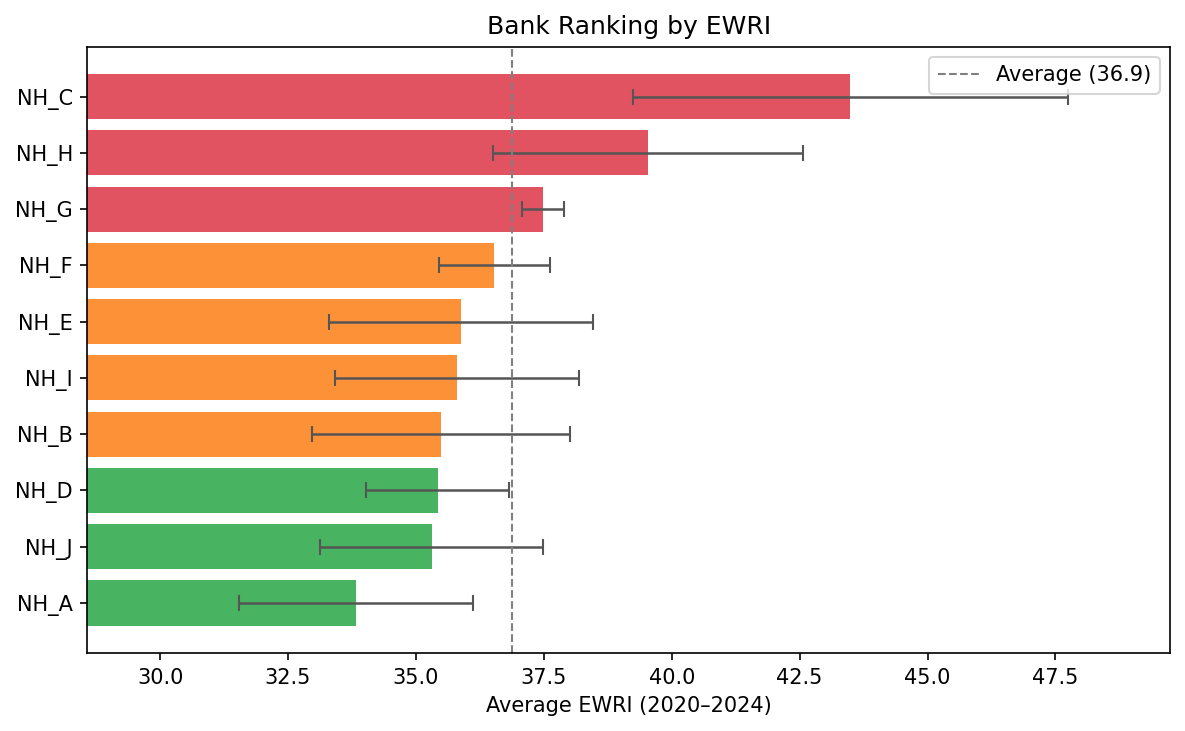
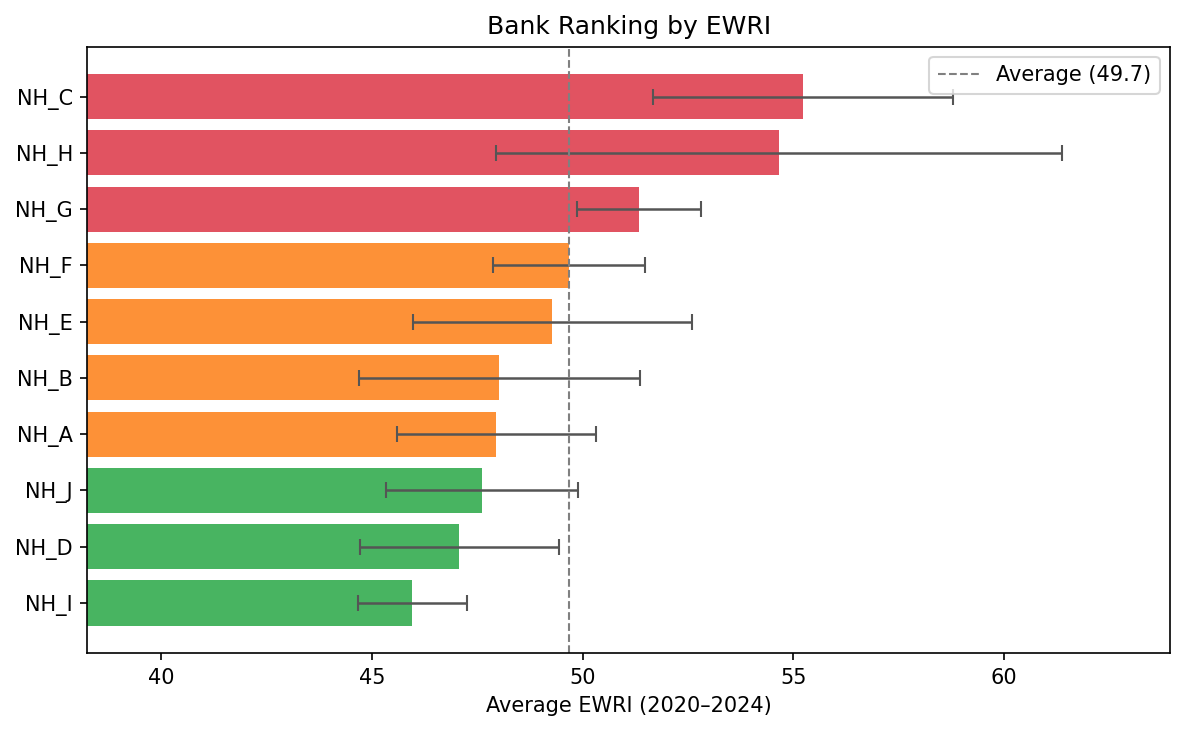
update

diff --git a/src/training/corpus/build_corpus.py b/src/training/corpus/build_corpus.py
@@ -5,10 +5,11 @@ import pandas as pd
 from typing import Optional
 
 try:
-    from underthesea import sent_tokenize
+    from underthesea import sent_tokenize, pos_tag as _ut_pos_tag
     USE_UNDERTHESEA = True
 except Exception:
     USE_UNDERTHESEA = False
+    _ut_pos_tag = None
 
 INPUT_ROOT = Path("data/extracted/raw_ocr_annual_report")
 OUT_BLOCKS = Path("data/corpus/blocks.parquet")
@@ -197,18 +198,54 @@ NOISE_PATTERNS = [
     re.compile(r"^\d{1,3}$"),
 ]
 
-def is_noise_sentence(s: str) -> bool:
+# Compiled once at module level — was inside is_noise_sentence() and recompiled every call
+_VI_VERBS_RE = re.compile(
+    r"\b(là|đã|đang|sẽ|được|có|không|đạt|giảm|tăng|thực hiện|triển khai|"
+    r"xây dựng|phát triển|quản lý|đảm bảo|hỗ trợ|cung cấp|áp dụng|"
+    r"cam kết|ban hành|tuân thủ|tiếp nhận|tư vấn|xử lý|cho|làm|đưa|mở|"
+    r"nâng|đổi|cải|tổ chức|phối hợp|kết hợp|sử dụng|đánh giá|chiếm|"
+    r"đóng góp|thu hút|duy trì|hoàn thành|vượt|ghi nhận)\b",
+    re.IGNORECASE,
+)
+
+# Section types that contain financial/legal/glossary boilerplate rather than ESG claims
+_NOISE_SECTION_KEYWORDS = (
+    "giải thưởng",
+    "danh hiệu",
+    "phụ lục",
+    "từ viết tắt",
+    "chú giải",
+    "bảng chú thích",
+    "rủi ro lãi suất",
+    "rủi ro thanh khoản",
+    "rủi ro tín dụng",
+    "nghĩa vụ nợ tiềm ẩn",
+)
+
+
+def is_noise_sentence(s: str, section_title: str = "") -> bool:
     stripped = s.strip()
 
     if len(stripped) < 15:
         return True
 
-    # All-caps heading/title text (raise threshold to cover short headings)
-    if stripped.isupper() and len(stripped) < 150:
+    if section_title:
+        sec_lower = section_title.lower()
+        if any(kw in sec_lower for kw in _NOISE_SECTION_KEYWORDS):
+            return True
+
+    # All-caps heading / award title.
+    main_text = re.sub(r"\s*\([^)]*\)", "", stripped).strip(" -–—.")
+    if main_text and main_text.isupper() and len(main_text) > 10:
         return True
 
     # List intro phrases — incomplete without the list that follows
     if stripped.endswith(":"):
+        return True
+
+    # Glossary / abbreviation entry: "SBG – Sustainability Bond Guidelines: ..."
+    # uppercase ASCII letters followed by an en/em dash or hyphen then a capital
+    if re.match(r"^[A-Z]{2,8}\s*[–—\-]\s+[A-Z]", stripped):
         return True
 
     # TOC entries: "08 Thông điệp của Chủ tịch", "18 Thông tin chung", etc.
@@ -228,6 +265,24 @@ def is_noise_sentence(s: str) -> bool:
     alpha_ratio = sum(c.isalpha() for c in stripped) / max(len(stripped), 1)
     if alpha_ratio < 0.3:
         return True
+
+    # Fragment starting with dash/bullet
+    if re.match(r"^[\-–—•]\s*", stripped):
+        content = re.sub(r"^[\-–—•\s]+", "", stripped).strip()
+        if len(content) < 40 and not _VI_VERBS_RE.search(content):
+            return True
+
+    if len(stripped) < 50 and not _VI_VERBS_RE.search(stripped):
+        return True
+
+    if USE_UNDERTHESEA and 50 <= len(stripped) < 120 and not _VI_VERBS_RE.search(stripped):
+        try:
+            tags = _ut_pos_tag(stripped)
+            has_verb = any(tag.startswith("V") for _, tag in tags)
+            if not has_verb:
+                return True
+        except Exception:
+            pass
 
     return False
 
@@ -304,7 +359,7 @@ def build_single_document(
 
         sents = sent_split(block_text_clean, block_type=btype)
         sents = [s for s in sents if len(s) >= 10]
-        sents = [s for s in sents if not is_noise_sentence(s)]
+        sents = [s for s in sents if not is_noise_sentence(s, section_title=current_section_title)]
 
         for j, sent in enumerate(sents):
             prev_s = sents[j - 1] if j > 0 else ""
@@ -385,7 +440,7 @@ def build(
 
             sents = sent_split(block_text_clean, block_type=btype)
             sents = [s for s in sents if len(s) >= 10]
-            sents = [s for s in sents if not is_noise_sentence(s)]
+            sents = [s for s in sents if not is_noise_sentence(s, section_title=current_section_title)]
 
             for j, sent in enumerate(sents):
                 prev_s = sents[j - 1] if j > 0 else ""

diff --git a/thesis/chapters/c4/c4_chapter.tex b/thesis/chapters/c4/c4_chapter.tex
@@ -196,15 +196,15 @@ Nghiên cứu so sánh ba phương pháp liên kết bằng chứng trên toàn 
     \item \textbf{No-NLI}: Truy xuất ứng viên bằng TF-IDF + cosine similarity, chấp nhận tất cả ứng viên vượt ngưỡng similarity.
 \end{enumerate}
 
-Ba phương pháp cho tỉ lệ câu có bằng chứng liên kết khác nhau: NLI đạt 99,1\%, Window 96,2\%, và No-NLI 99,8\%. Tỉ lệ cao này phản ánh việc truy xuất TF-IDF + cosine similarity tìm được ứng viên cho hầu hết câu; câu hỏi quan trọng hơn là \textit{chất lượng} liên kết đó có thực sự hỗ trợ tuyên bố không.
+Ba phương pháp cho tỉ lệ câu có bằng chứng liên kết khác nhau: NLI đạt 99,8\%, Window 96,2\%, và No-NLI 99,8\%. Tỉ lệ cao này phản ánh việc truy xuất TF-IDF + cosine similarity tìm được ứng viên cho hầu hết câu; câu hỏi quan trọng hơn là \textit{chất lượng} liên kết đó có thực sự hỗ trợ tuyên bố không.
 
-Phương pháp NLI đạt similarity trung bình 0,745, cao hơn rõ ràng so với Window (0,657, +13,5\%) và tương đương No-NLI (0,752). Điều này xác nhận rằng truy xuất ngữ nghĩa (TF-IDF + embedding similarity) tìm được ứng viên liên quan ngữ nghĩa tốt hơn so với cửa sổ cố định. Trong ba phương pháp, chỉ NLI thực hiện xác minh suy luận: 35,0\% cặp tuyên bố-bằng chứng được NLI xác định là \textit{entailment} (bằng chứng thực sự hỗ trợ tuyên bố), 61,8\% là \textit{neutral} (liên quan chủ đề nhưng không suy ra được), và 3,1\% là \textit{contradiction} (bằng chứng mâu thuẫn).
+Phương pháp NLI đạt similarity trung bình 0,752, cao hơn rõ ràng so với Window (0,656, +14,6\%) và tương đương No-NLI (0,752). Điều này xác nhận rằng truy xuất ngữ nghĩa (TF-IDF + embedding similarity) tìm được ứng viên liên quan ngữ nghĩa tốt hơn so với cửa sổ cố định. Trong ba phương pháp, chỉ NLI thực hiện xác minh suy luận: 33,1\% cặp tuyên bố-bằng chứng được NLI xác định là \textit{entailment} (bằng chứng thực sự hỗ trợ tuyên bố), 61,9\% là \textit{neutral} (liên quan chủ đề nhưng không suy ra được), và 5,0\% là \textit{contradiction} (bằng chứng mâu thuẫn).
 
 Bước xác minh NLI đóng vai trò quan trọng trong việc nâng cao chất lượng liên kết bằng chứng. Khi không có NLI, hệ thống chỉ dựa trên cosine similarity --- một độ đo tương đồng bề mặt không phân biệt được giữa \textit{entailment} (hỗ trợ) và \textit{contradiction} (mâu thuẫn). Ví dụ, câu tuyên bố \textit{``Ngân hàng cam kết giảm 30\% phát thải carbon''} và câu bằng chứng \textit{``Phát thải carbon của ngân hàng tăng 15\% trong năm 2023''} có cosine similarity cao (cùng chủ đề phát thải carbon) nhưng quan hệ NLI là \textit{contradiction}.
 
-Tỉ lệ contradiction 3,2\% cho thấy cơ chế NLI phát hiện và loại bỏ một lượng nhỏ nhưng quan trọng các trường hợp bằng chứng ngược --- những trường hợp mà nếu bỏ qua sẽ làm giảm nghiêm trọng chất lượng đánh giá nguy cơ ESG-washing.
+Tỉ lệ contradiction 5,0\% cho thấy cơ chế NLI phát hiện và loại bỏ một lượng đáng kể các trường hợp bằng chứng ngược --- những trường hợp mà nếu bỏ qua sẽ làm giảm nghiêm trọng chất lượng đánh giá nguy cơ ESG-washing.
 
-Phương pháp liên kết bằng chứng ngữ nghĩa hai giai đoạn (semantic retrieval + NLI verification) cải thiện chất lượng liên kết so với phương pháp cửa sổ ngữ cảnh. Cụ thể: (1) Truy xuất ngữ nghĩa đạt similarity cao hơn cửa sổ (+13,5\%, 0,745 so với 0,657); (2) NLI xác minh cho phép phân biệt giữa bằng chứng hỗ trợ thực sự (entailment, 35,0\%) và bằng chứng trung lập (61,8\%) --- sự phân biệt mà No-NLI và Window không có; (3) Tỉ lệ entailment 35,0\% là chỉ báo thực chất về mức độ tuyên bố ESG được hỗ trợ xác đáng trong báo cáo ngân hàng.
+Phương pháp liên kết bằng chứng ngữ nghĩa hai giai đoạn (semantic retrieval + NLI verification) cải thiện chất lượng liên kết so với phương pháp cửa sổ ngữ cảnh. Cụ thể: (1) Truy xuất ngữ nghĩa đạt similarity cao hơn cửa sổ (+14,6\%, 0,752 so với 0,656); (2) NLI xác minh cho phép phân biệt giữa bằng chứng hỗ trợ thực sự (entailment, 33,1\%) và bằng chứng trung lập (61,9\%) --- sự phân biệt mà No-NLI và Window không có; (3) Tỉ lệ entailment 33,1\% là chỉ báo thực chất về mức độ tuyên bố ESG được hỗ trợ xác đáng trong báo cáo ngân hàng.
 
 \subsection{Phân bố loại bằng chứng}
 \label{subsec:evidence_type_dist}
@@ -232,7 +232,7 @@ Standard     &  1.417 &  1,2\% \\
 
 Time\_bound là loại phổ biến nhất (15,0\%), phản ánh việc báo cáo thường niên ngân hàng thường xuyên đề cập đến năm tài chính, giai đoạn và mốc thời gian cụ thể --- đây là đặc điểm văn phong của tài liệu tài chính, không nhất thiết chứng tỏ cam kết ESG có căn cứ. KPI đứng thứ hai (8,5\%) với các chỉ số định lượng như tỉ lệ phần trăm, đơn vị tấn CO2, kWh, và dư nợ tín dụng xanh. Third\_party (1,2\%) và Standard (1,2\%) là hai loại hiếm nhất --- xác minh độc lập (kiểm toán Big4, chứng nhận Bureau Veritas) và trích dẫn chuẩn ESG (GRI, TCFD, ISO) chỉ xuất hiện ở một số ít phần báo cáo chuyên biệt.
 
-Phần lớn câu trong ngữ liệu (77,8\%) không chứa dấu hiệu bằng chứng theo bốn loại trên, phản ánh thực tế rằng phần lớn nội dung báo cáo là ngôn ngữ tường thuật và định tính. Trong số 32.260 câu ESG được đưa vào giai đoạn liên kết bằng chứng, 35,0\% được NLI xác định là \textit{entailment} --- bằng chứng tìm được thực sự hỗ trợ tuyên bố ESG tương ứng. Con số này là chỉ báo chính về mức độ tuyên bố ESG có căn cứ kiểm chứng trong báo cáo ngân hàng Việt Nam.
+Phần lớn câu trong ngữ liệu (77,8\%) không chứa dấu hiệu bằng chứng theo bốn loại trên, phản ánh thực tế rằng phần lớn nội dung báo cáo là ngôn ngữ tường thuật và định tính. Trong số 32.260 câu ESG được đưa vào giai đoạn liên kết bằng chứng, 33,1\% được NLI xác định là \textit{entailment} --- bằng chứng tìm được thực sự hỗ trợ tuyên bố ESG tương ứng. Con số này là chỉ báo chính về mức độ tuyên bố ESG có căn cứ kiểm chứng trong báo cáo ngân hàng Việt Nam.
 
 \section{Trả lời câu hỏi ba: Phân tích chỉ số EWRI}
 \label{sec:rq3}
@@ -240,7 +240,7 @@ Phần lớn câu trong ngữ liệu (77,8\%) không chứa dấu hiệu bằng 
 \subsection{Tổng quan kết quả EWRI}
 \label{subsec:ewri_overview}
 
-Kết quả tổng hợp chỉ số EWRI được tính cho 50 quan sát ngân hàng cho thấy EWRI trung bình = 36,88 $\pm$ 3,45 (thang điểm 0--100), phạm vi từ 30,26 đến 50,53.
+Kết quả tổng hợp chỉ số EWRI được tính cho 50 quan sát ngân hàng cho thấy EWRI trung bình = 49,68 $\pm$ 4,18 (thang điểm 0--100), phạm vi từ 43,98 đến 63,32.
 
 \begin{table}[H]
 \centering
@@ -250,14 +250,14 @@ Kết quả tổng hợp chỉ số EWRI được tính cho 50 quan sát ngân h
 \toprule
 \textbf{Thành phần} & \textbf{Đóng góp TB} & \textbf{\% EWRI} & \textbf{Std} \\
 \midrule
-Indeterminate & 36,13 & 98,0\% & 3,57 \\
-Implemented   &  0,46 &  1,3\% & 0,10 \\
-Planning      &  0,29 &  0,8\% & 0,15 \\
+Indeterminate & 48,92 & 98,5\% & 4,27 \\
+Implemented   &  0,47 &  0,9\% & 0,10 \\
+Planning      &  0,29 &  0,6\% & 0,15 \\
 \bottomrule
 \end{tabular}
 \end{table}
 
-Thành phần Indeterminate chiếm đến 98,0\% tổng điểm EWRI, phản ánh thực tế rằng phần lớn tuyên bố ESG trong báo cáo ngân hàng Việt Nam ở trạng thái mơ hồ --- không rõ đã thực hiện hay mới chỉ là dự định. Đây chính là nguồn rủi ro washing chính: các phát biểu thiếu tính cụ thể, không có cam kết thời gian rõ ràng và không kèm bằng chứng kiểm chứng.
+Thành phần Indeterminate chiếm đến 98,5\% tổng điểm EWRI, phản ánh thực tế rằng phần lớn tuyên bố ESG trong báo cáo ngân hàng Việt Nam ở trạng thái mơ hồ --- không rõ đã thực hiện hay mới chỉ là dự định. Đây chính là nguồn rủi ro washing chính: các phát biểu thiếu tính cụ thể, không có cam kết thời gian rõ ràng và không kèm bằng chứng kiểm chứng. Đáng lưu ý là với bộ tham số tối ưu ($\lambda_{Indet}=0{,}50$), bằng chứng NLI \textit{entailment} giảm WRS của câu Indeterminate đi một nửa (từ 0,90 xuống 0,45), nên tỉ lệ entailment nội tại của mỗi ngân hàng cũng ảnh hưởng đáng kể đến EWRI.
 
 \begin{figure}[H]
     \centering
@@ -269,8 +269,8 @@ Thành phần Indeterminate chiếm đến 98,0\% tổng điểm EWRI, phản á
 Các nhận định chính từ phân tích ma trận tương quan trên như sau:
 
 \begin{itemize}
-    \item EWRI tương quan dương rất mạnh với tỉ lệ Indeterminate ($r = 0{,}99$) và tương quan âm rất mạnh với tỉ lệ Implemented ($r = -0{,}97$). Điều này xác nhận rằng nhãn hành động --- đặc biệt là sự phân biệt giữa cam kết đã thực hiện và cam kết mơ hồ --- là yếu tố quyết định chính của EWRI.
-    \item Tỉ lệ Planning không có tương quan đáng kể với EWRI ($r = -0{,}23$), tức là tỉ lệ câu Planning trong báo cáo không dự báo được mức EWRI của ngân hàng.
+    \item EWRI tương quan dương mạnh với tỉ lệ Indeterminate ($\rho = 0{,}80$) và tương quan âm mạnh với tỉ lệ Implemented ($\rho = -0{,}79$). Điều này xác nhận rằng nhãn hành động --- đặc biệt là sự phân biệt giữa cam kết đã thực hiện và cam kết mơ hồ --- là yếu tố quyết định chính của EWRI. So với bộ tham số cũ (tương quan $\approx 0{,}99$), giá trị $\lambda_{Indet}=0{,}50$ cao hơn làm cho bằng chứng NLI tác động mạnh hơn lên WRS của câu Indeterminate, do đó tỉ lệ entailment nội tại của từng ngân hàng cũng đóng góp vào sự phân tán EWRI và làm giảm mức tương quan đơn biến.
+    \item Tỉ lệ Planning không có tương quan đáng kể với EWRI ($\rho = -0{,}13$), tức là tỉ lệ câu Planning trong báo cáo không dự báo được mức EWRI của ngân hàng.
 \end{itemize}
 
 \subsection{Phân tích ESG-washing đối với các ngân hàng}
@@ -294,21 +294,21 @@ Dưới đây là xếp hạng 10 ngân hàng theo EWRI trung bình giai đoạn
 \toprule
 \textbf{Hạng} & \textbf{Ngân hàng} & \textbf{Số lượng câu} & \textbf{EWRI} & \textbf{Std} & \textbf{$\bar{R}_I$} & \textbf{$\bar{R}_{In}$} & \textbf{$\bar{R}_E$} \\
 \midrule
-1  & NH\_A  & 1.544 & 33,83 & 2,29 & 36,8\% & 60,5\% & 28,8\% \\
-2  & NH\_J  & 4.513 & 35,30 & 2,18 & 34,9\% & 62,3\% & 32,7\% \\
-3  & NH\_D  & 3.485 & 35,43 & 1,40 & 33,7\% & 63,0\% & 34,8\% \\
-4  & NH\_B  & 4.330 & 35,49 & 2,52 & 34,3\% & 62,2\% & 33,6\% \\
-5  & NH\_I  & 5.155 & 35,81 & 2,39 & 33,7\% & 64,2\% & 40,7\% \\
-6  & NH\_E  & 1.716 & 35,88 & 2,58 & 34,4\% & 64,2\% & 32,8\% \\
-7  & NH\_F  & 3.898 & 36,53 & 1,09 & 32,8\% & 64,8\% & 33,0\% \\
-8  & NH\_G  & 4.303 & 37,49 & 0,41 & 29,3\% & 66,9\% & 33,1\% \\
-9  & NH\_H  & 1.550 & 39,54 & 3,03 & 27,4\% & 70,4\% & 31,8\% \\
-10 & NH\_C  & 1.766 & 43,49 & 4,25 & 21,9\% & 76,7\% & 41,0\% \\
+1  & NH\_I  & 5.155 & 45,96 & 1,30 & 33,7\% & 64,2\% & 39,4\% \\
+2  & NH\_D  & 3.485 & 47,08 & 2,36 & 33,7\% & 63,0\% & 33,8\% \\
+3  & NH\_J  & 4.513 & 47,62 & 2,27 & 34,9\% & 62,3\% & 31,9\% \\
+4  & NH\_A  & 1.544 & 47,96 & 2,36 & 36,8\% & 60,5\% & 28,1\% \\
+5  & NH\_B  & 4.330 & 48,03 & 3,34 & 34,3\% & 62,2\% & 31,0\% \\
+6  & NH\_E  & 1.716 & 49,28 & 3,31 & 34,4\% & 64,2\% & 30,6\% \\
+7  & NH\_F  & 3.898 & 49,68 & 1,80 & 32,8\% & 64,8\% & 31,0\% \\
+8  & NH\_G  & 4.303 & 51,34 & 1,47 & 29,3\% & 66,9\% & 30,5\% \\
+9  & NH\_H  & 1.550 & 54,65 & 6,71 & 27,4\% & 70,4\% & 32,4\% \\
+10 & NH\_C  & 1.766 & 55,22 & 3,56 & 21,9\% & 76,7\% & 38,5\% \\
 \bottomrule
 \end{tabular}
 \end{table}
 
-NH\_A dẫn đầu với EWRI thấp nhất (33,83), nhờ tỉ lệ Implemented cao nhất (36,8\%) và tỉ lệ Indeterminate thấp nhất (60,5\%). NH\_C xếp cuối với EWRI = 43,49 (chênh 9,66 điểm so với NH\_A), trong đó năm 2020 đạt EWRI = 50,53 --- mức cao nhất toàn tập.
+NH\_I dẫn đầu với EWRI thấp nhất (45,96), nhờ tỉ lệ Indeterminate thấp (64,2\%) và tỉ lệ entailment cao nhất trong nhóm đầu (39,4\%). NH\_A đứng thứ 4 với tỉ lệ Implemented cao nhất (36,8\%) và Indeterminate thấp nhất (60,5\%). NH\_C xếp cuối với EWRI = 55,22 (chênh 9,26 điểm so với NH\_I), trong đó NH\_H năm 2021 đạt EWRI = 63,32 --- mức cao nhất toàn tập.
 
 \begin{figure}[H]
     \centering
@@ -323,7 +323,7 @@ Chủ đề E (Môi trường) có tỉ lệ Planning cao nhất (5,2\%), cho th
 
 Entropy chủ đề Shannon chuẩn hóa (Phương trình~\ref{eq:topic_entropy}) trên 50 quan sát ngân hàng-năm đạt trung bình $\bar{H} = 0{,}801$ ($\sigma = 0{,}094$), với biên độ $[0{,}566;\, 0{,}969]$. Giá trị trung bình gần 1 phản ánh các báo cáo nhìn chung đề cập tương đối đa dạng các chủ đề ESG. Tuy nhiên, một số quan sát có $H < 0{,}65$ cho thấy tình trạng tập trung quá mức vào G (chiếm 52,0\%) trong khi bỏ qua E và S\_product --- kết hợp với EWRI cao của G, đây là dấu hiệu của \textit{selective disclosure}: ngân hàng chủ động chọn chủ đề dễ trình bày mơ hồ để lấp đầy báo cáo~\cite{marquis2016scrutiny}.
 
-Tóm lại chỉ số EWRI phản ánh phù hợp mức độ rủi ro ESG-washing trên 50 quan sát ngân hàng-năm. Kết quả cho thấy: Hệ thống phân biệt rõ ràng giữa 10 ngân hàng, với khoảng cách EWRI trung bình 9,66 điểm giữa nhóm tốt nhất (NH\_A, 33,83) và kém nhất (NH\_C, 43,49); Thành phần Indeterminate đóng góp đến 98,0\% tổng điểm EWRI, xác nhận đây là nguồn rủi ro washing chính trong báo cáo ESG ngân hàng Việt Nam.
+Tóm lại chỉ số EWRI phản ánh phù hợp mức độ rủi ro ESG-washing trên 50 quan sát ngân hàng-năm. Kết quả cho thấy: Hệ thống phân biệt rõ ràng giữa 10 ngân hàng, với khoảng cách EWRI trung bình 9,26 điểm giữa nhóm tốt nhất (NH\_I, 45,96) và kém nhất (NH\_C, 55,22); Thành phần Indeterminate đóng góp đến 98,5\% tổng điểm EWRI, xác nhận đây là nguồn rủi ro washing chính trong báo cáo ESG ngân hàng Việt Nam.
 
 
 % \subsection{Kiểm định độ tin cậy EWRI}

diff --git a/src/pipeline/evidence_linker.py b/src/pipeline/evidence_linker.py
@@ -164,11 +164,18 @@ class ClaimEvidenceLinker:
         same_doc_mask = (candidate_df["bank"] == bank) & (candidate_df["year"] == year)
         same_doc_idxs = candidate_df[same_doc_mask].index.tolist()
 
+        claim_block_id = claim_row.get("block_id", None)
+        _has_block_id = "block_id" in candidate_df.columns and claim_block_id is not None
+        if _has_block_id:
+            _block_ids = candidate_df["block_id"].values
+
         candidates_with_boost = []
         seen = set()
 
         # proximity window w
         for idx in same_doc_idxs:
+            if _has_block_id and _block_ids[idx] == claim_block_id:
+                continue
             distance = abs(idx - pos)
             if 0 < distance <= self.window_size:
                 proximity_boost = 1.0 - (distance / (self.window_size + 1)) * self.proximity_decay
@@ -197,10 +204,13 @@ class ClaimEvidenceLinker:
 
                 for doc_pos in top_k_idxs:
                     actual_idx = same_doc_idxs[doc_pos]
-                    if actual_idx != pos and actual_idx not in seen:
-                        tfidf_boost = self.tfidf_boost_floor + tfidf_sims[doc_pos] * self.tfidf_boost_scale
-                        candidates_with_boost.append((actual_idx, tfidf_boost))
-                        seen.add(actual_idx)
+                    if actual_idx == pos or actual_idx in seen:
+                        continue
+                    if _has_block_id and _block_ids[actual_idx] == claim_block_id:
+                        continue
+                    tfidf_boost = self.tfidf_boost_floor + tfidf_sims[doc_pos] * self.tfidf_boost_scale
+                    candidates_with_boost.append((actual_idx, tfidf_boost))
+                    seen.add(actual_idx)
             except Exception:
                 pass
 
@@ -257,7 +267,7 @@ class ClaimEvidenceLinker:
             raw_sim = float(raw_similarities[sort_idx])
             candidate_idx = candidate_idxs[sort_idx]
 
-            if raw_sim < self.similarity_threshold * 0.8:
+            if raw_sim < self.similarity_threshold:
                 continue
 
             evidence_row = _search_df.iloc[candidate_idx]

diff --git a/scripts/compute_ewri_stats.py b/scripts/compute_ewri_stats.py
@@ -1,8 +1,13 @@
 import pandas as pd
+import yaml
 import sys
 sys.path.insert(0, ".")
-from src.pipeline.ewri import enrich_with_risk_scores, calculate_bank_year_ewri, scores_to_dataframe
+from src.pipeline.ewri import configure_ewri, enrich_with_risk_scores, calculate_bank_year_ewri, scores_to_dataframe
 from scipy import stats
+
+with open("config/pipeline.yml") as f:
+    _cfg = yaml.safe_load(f)
+configure_ewri(_cfg.get("ewri", {}))
 
 df = pd.read_parquet("outputs/experiments/evidence/evidence_nli.parquet")
 df = enrich_with_risk_scores(df)